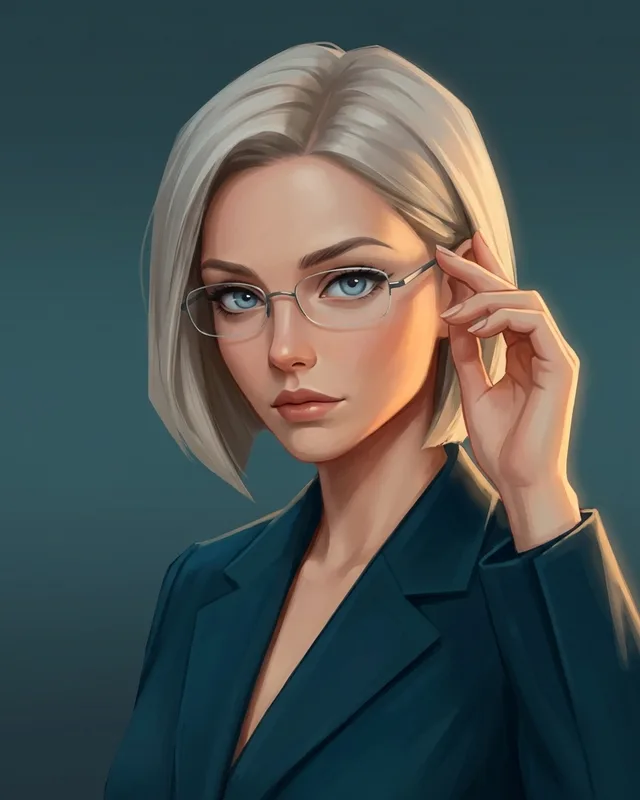
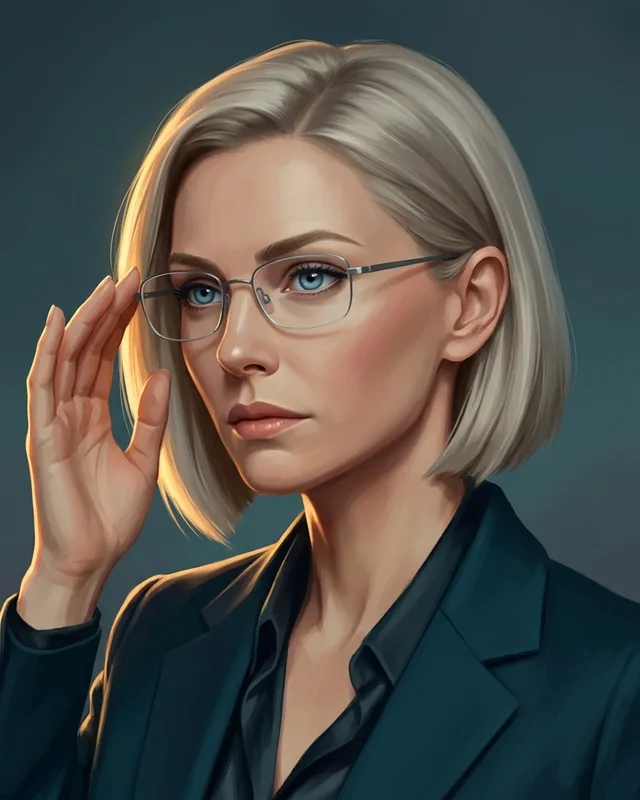
feat(portraits): update portraits to mature semi-realistic style without pixar/cartoon bias

diff --git a/docs/portraits-brief.md b/docs/portraits-brief.md
@@ -16,10 +16,12 @@
 
 ```
 The attached image is the STYLE REFERENCE ONLY. Paint a new portrait in exactly the same style and rendering:
-stylized 2.5D digital painting, Pixar-meets-editorial illustration, soft painterly skin, large expressive eyes,
-warm cinematic side light with a soft glow, smooth softly blurred gradient background, chest-up framing with the face
-in the upper half, slight head tilt, vertical 4:5. Do NOT copy the reference person's face, hair, earrings or clothes:
-draw a completely different person as described below. No text, no logos, no watermark, exactly one person.
+semi-realistic digital character painting, mature adult facial anatomy, realistic human facial proportions,
+soft painterly skin rendering, cinematic warm golden rim light on one side with deep rich colored shadows on the other,
+smooth softly blurred gradient background, natural 3/4 angle chest-up portrait, vertical 4:5, adult psychological depth.
+Do NOT make it a cartoon, NO Pixar, NO anime, NO enlarged doll eyes, NO raw grainy camera photo.
+Do NOT copy the reference person's face, hair, earrings or clothes: draw a completely different person as described below.
+No text, no logos, no watermark, exactly one person.
 
 <PERSON>
 ```
